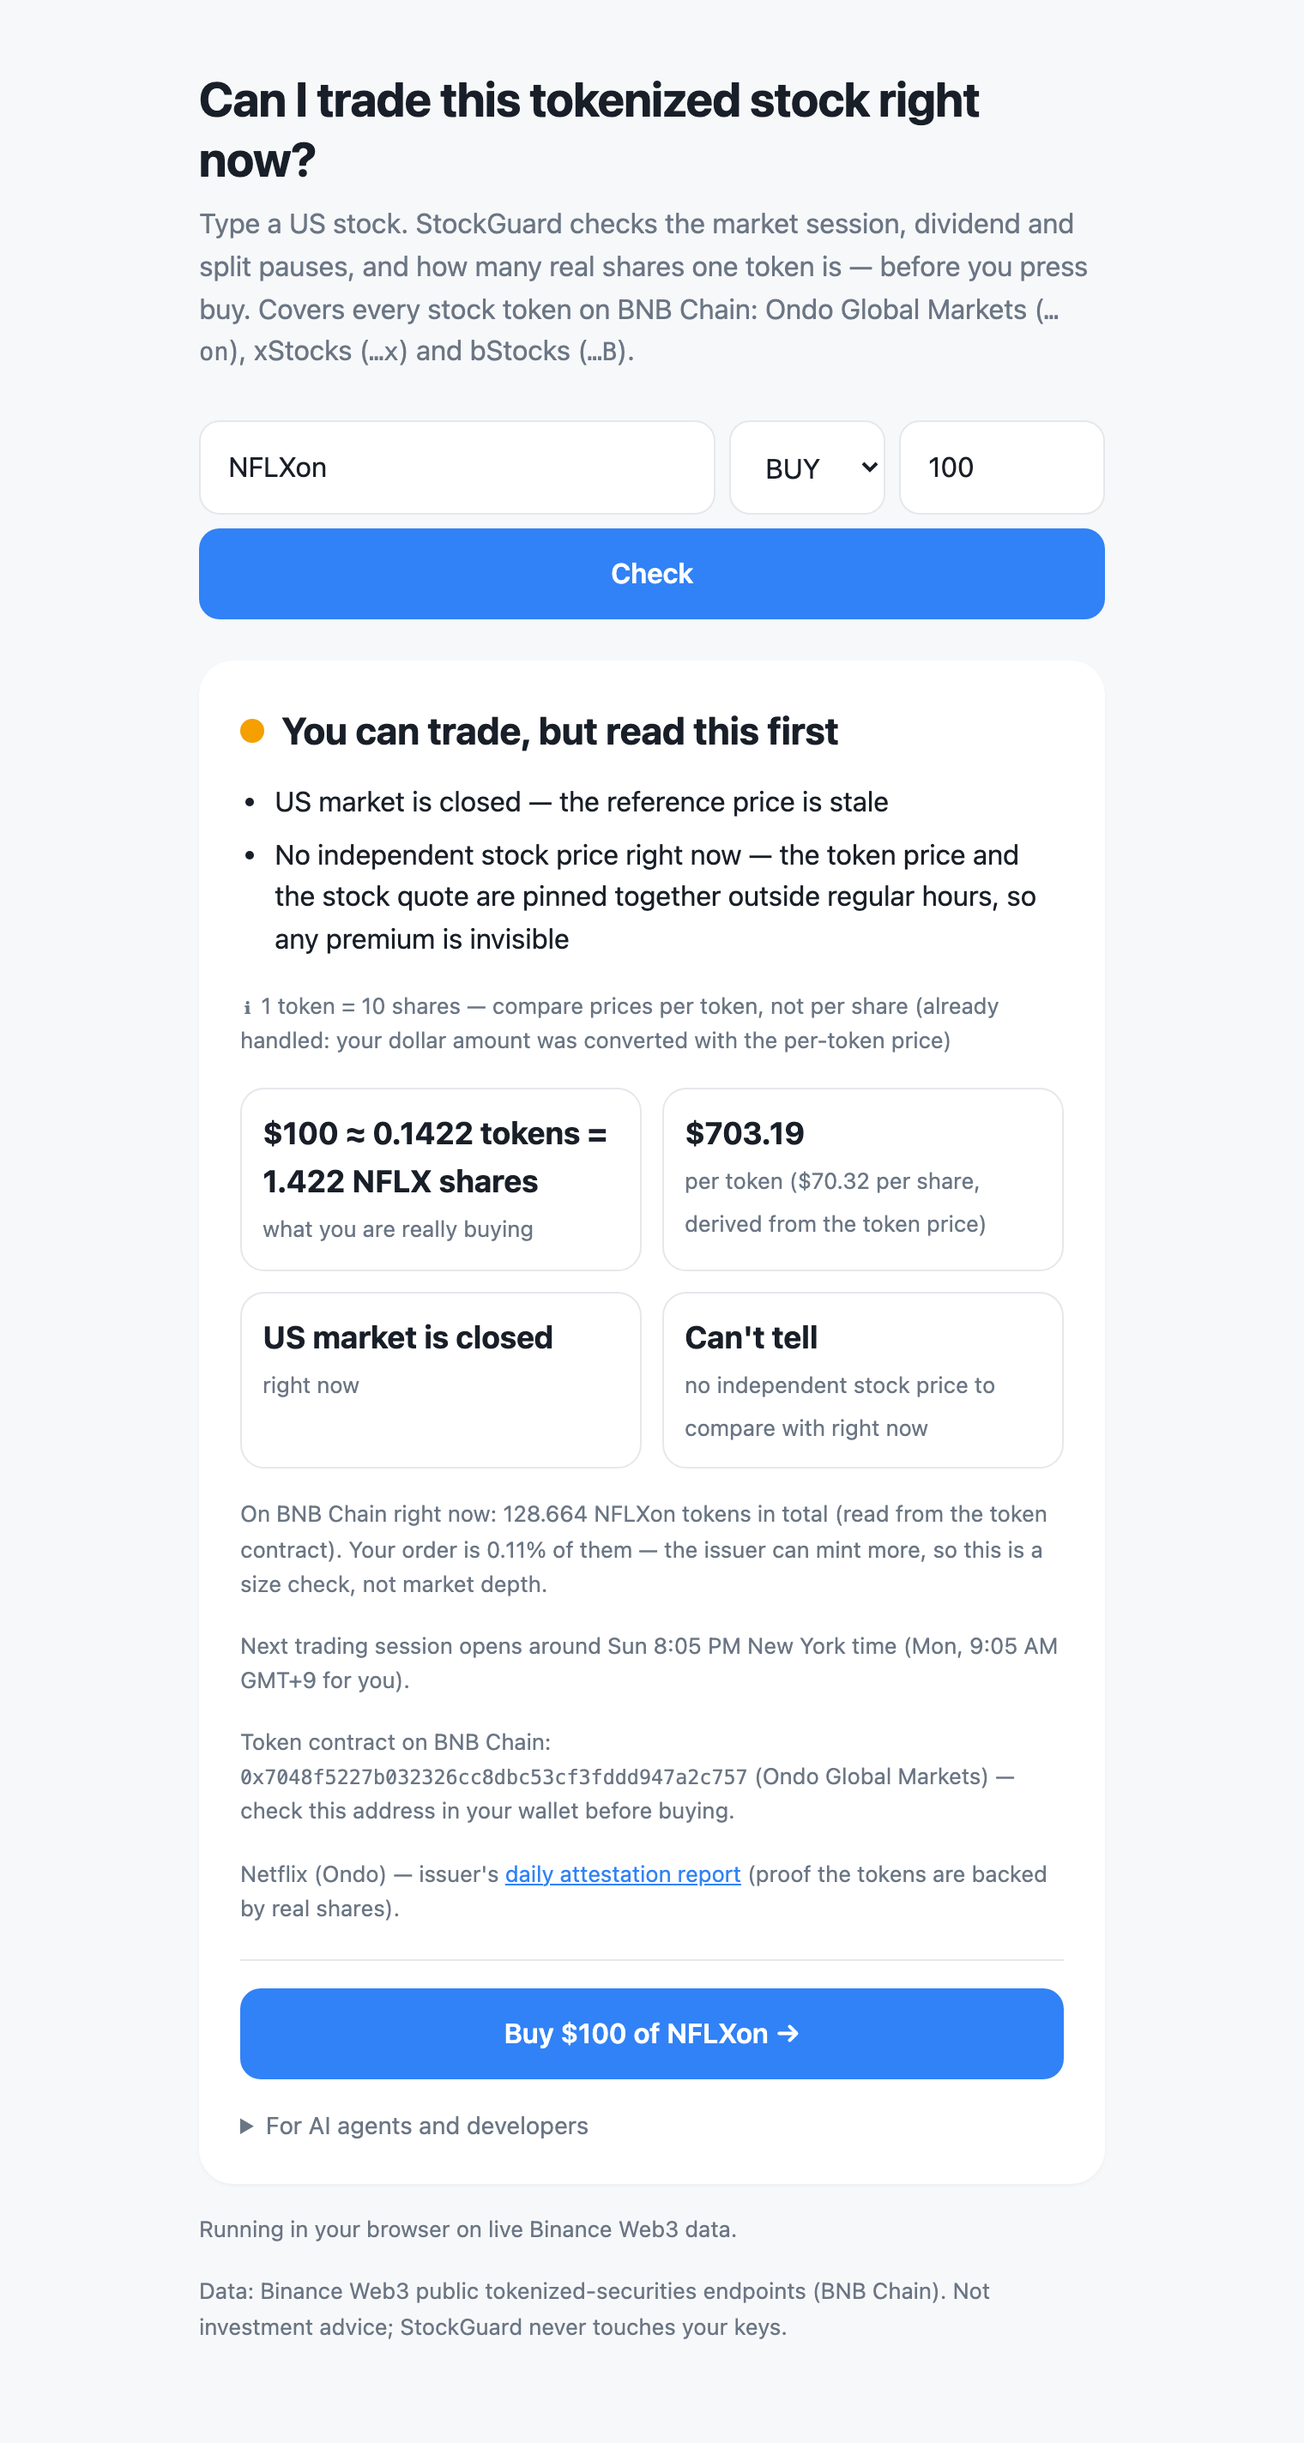
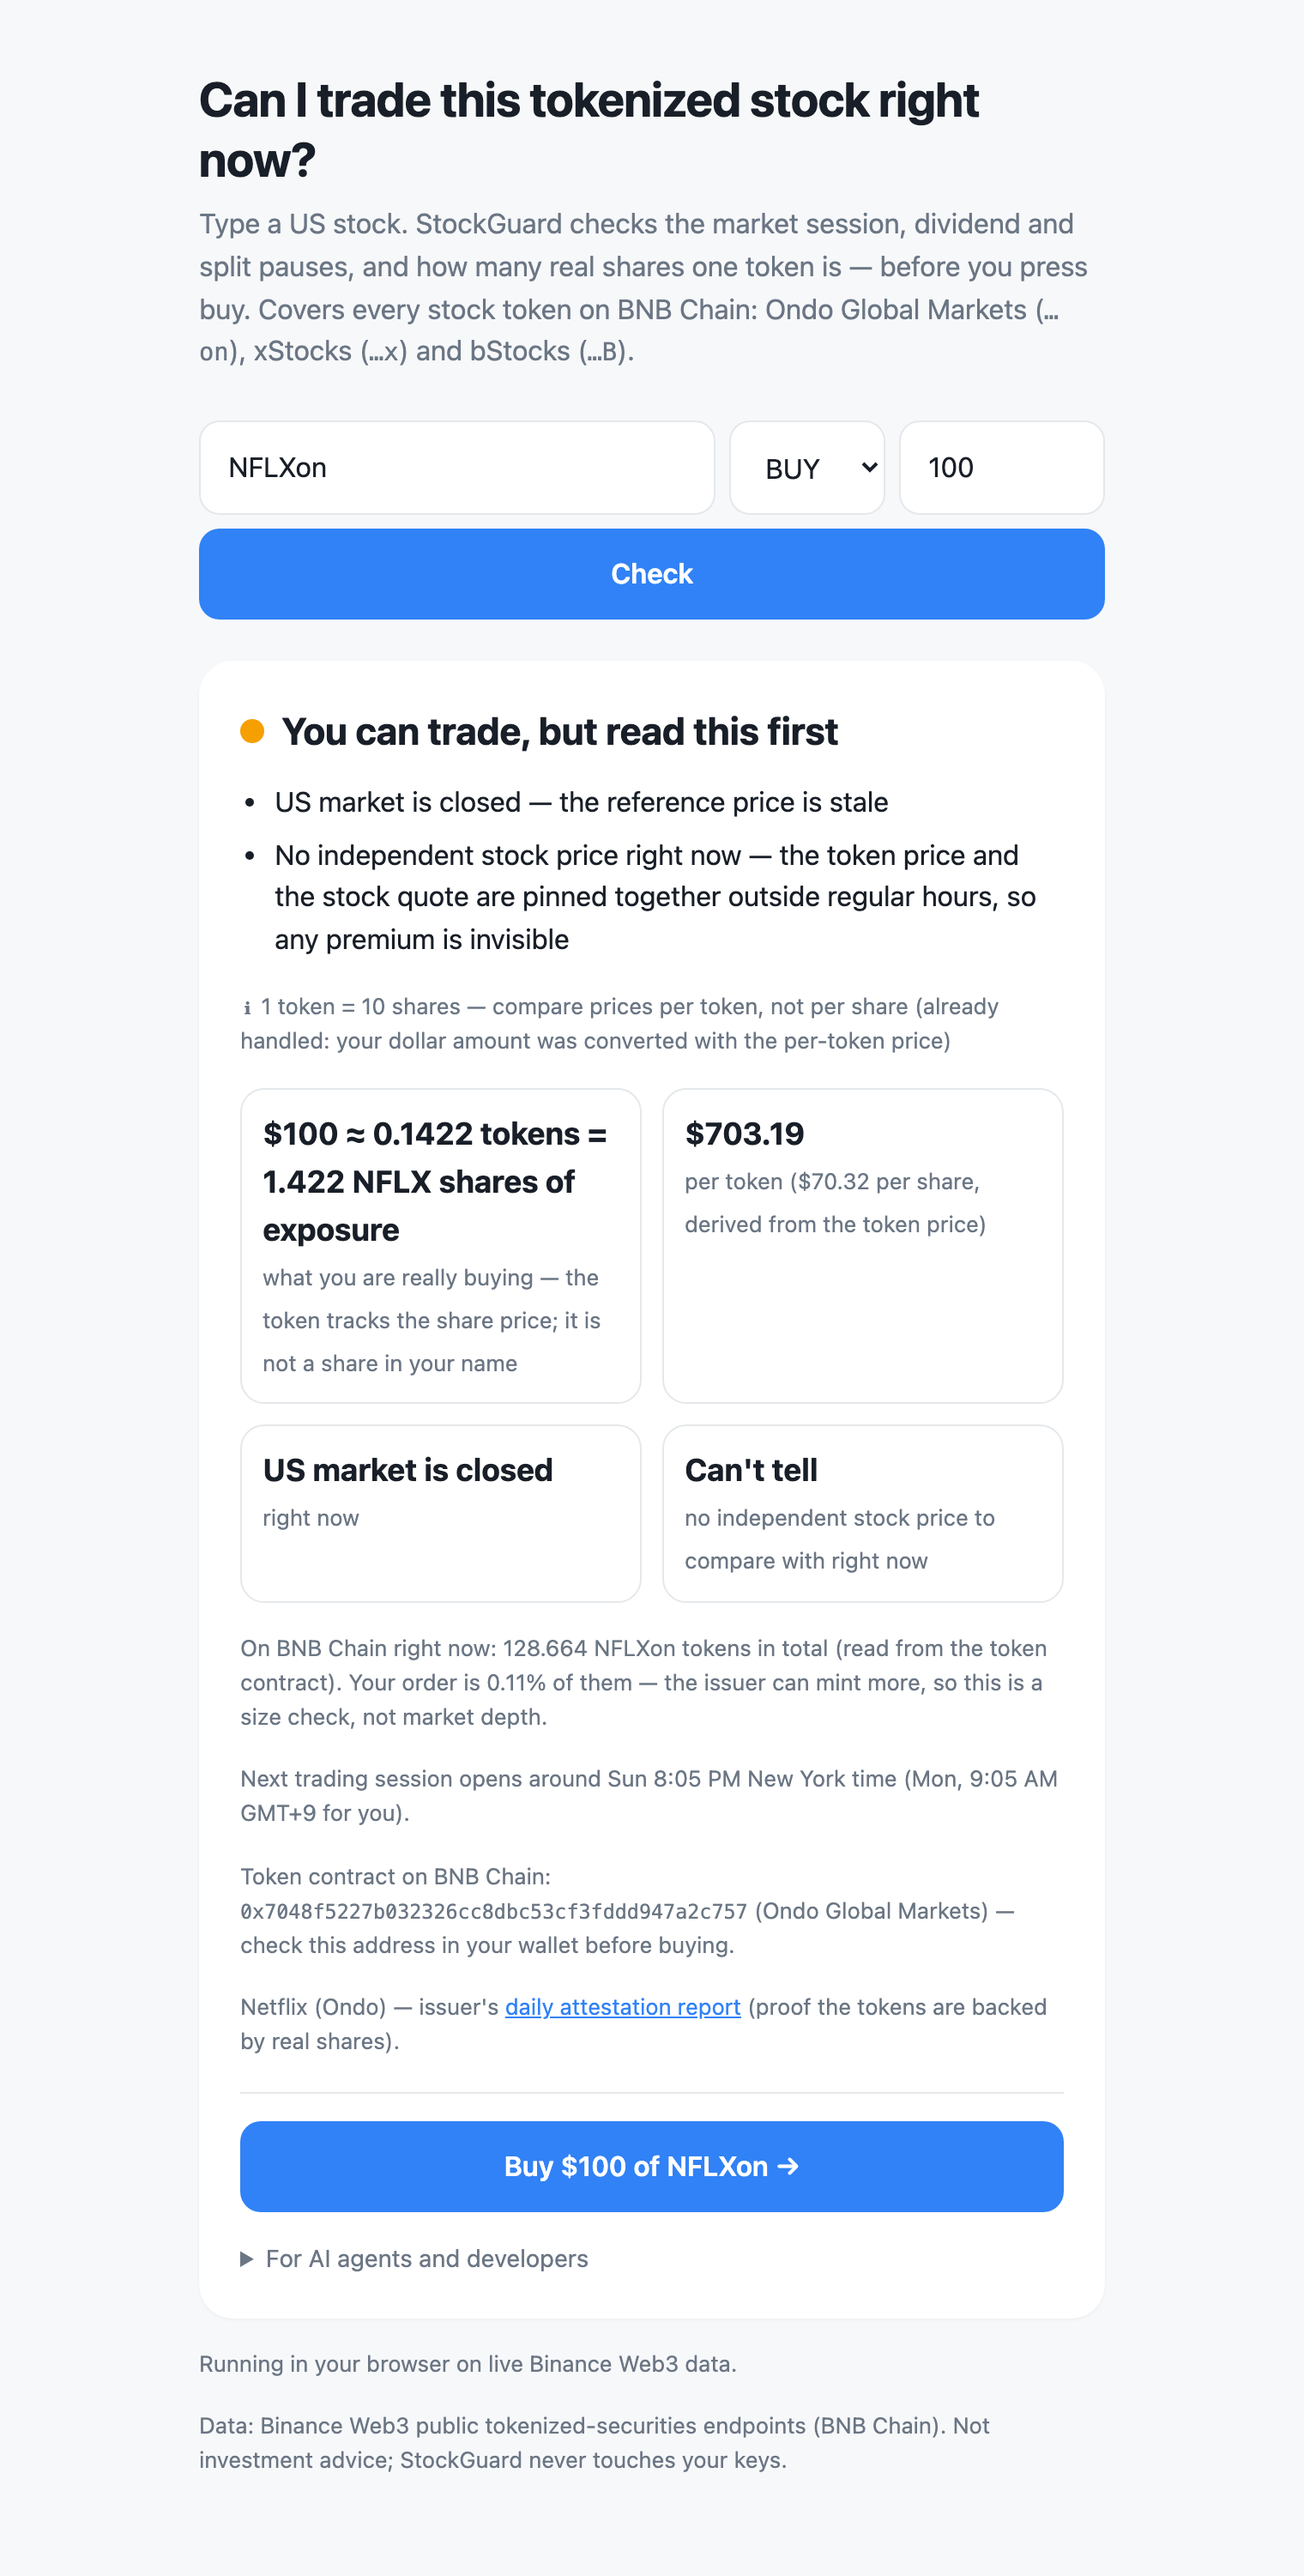
reproduce_findings --offline: F7 says 'not recorded' for xStocks/bStocks candles instead of 0, and the contrast must hold when they are present (test)
Claude-Session: https://claude.ai/code/session_015DitZZn4mX928yQEEcy6bZ

Changed region(s): [[0.1546, 0.0312, 0.8658, 0.875], [0.1546, 0.9062, 0.7112, 0.9688]]

diff --git a/scripts/reproduce_findings.py b/scripts/reproduce_findings.py
@@ -104,10 +104,17 @@ def check_f7(klines: List, others: Optional[Dict[str, List]] = None) -> Dict:
     vols = [str(k[5]) for k in klines if isinstance(k, list) and len(k) > 5]
     zero = sum(1 for v in vols if _f(v) == 0)
     obs = {"NFLXon candles": len(vols), "NFLXon candles with volume 0": zero, "NFLXon close prices move": len({k[4] for k in klines}) > 1}
-    for sym, ks in (others or {}).items():   # xStocks/bStocks candles do carry volume: the gap is Ondo-specific
-        obs[f"{sym} candles with volume > 0"] = sum(1 for k in ks if isinstance(k, list) and len(k) > 5 and (_f(k[5]) or 0) > 0)
+    contrast = []                             # xStocks/bStocks candles do carry volume: the gap is Ondo-specific
+    for sym, ks in (others or {}).items():
+        rows = [k for k in ks if isinstance(k, list) and len(k) > 5]
+        if not rows:                          # e.g. --offline: only Ondo candles were recorded — say so, don't print 0
+            obs[f"{sym} candles with volume > 0"] = "not recorded"
+            continue
+        n = sum(1 for k in rows if (_f(k[5]) or 0) > 0)
+        obs[f"{sym} candles with volume > 0"] = n
+        contrast.append(n > 0)
     return {"observed": obs, "expected": "some volume on Ondo candles whose price moves, as xStocks/bStocks candles have",
-            "reproduced": bool(vols) and zero == len(vols)}
+            "reproduced": bool(vols) and zero == len(vols) and (not contrast or any(contrast))}
 
 
 def check_f14(audit: Dict) -> Dict:

diff --git a/tests/test_r10_fixes.py b/tests/test_r10_fixes.py
@@ -233,3 +233,14 @@ def test_check_with_an_ambiguous_ticker_exits_11_like_gate(capsys):
 def test_page_says_share_exposure_not_shares_owned():
     html = open(os.path.join(ROOT, "src", "stockguard", "web", "index.html"), encoding="utf-8").read()
     assert "shares of exposure" in html
+
+
+def test_f7_offline_without_recorded_candles_says_not_recorded():
+    import importlib.util
+    spec = importlib.util.spec_from_file_location("rf", os.path.join(ROOT, "scripts", "reproduce_findings.py"))
+    rf = importlib.util.module_from_spec(spec); spec.loader.exec_module(rf)
+    ondo = [[1, "1", "1", "1", "1", "0"], [2, "1", "1", "1", "2", "0"]]
+    r = rf.check_f7(ondo, {"NFLXx": []})
+    assert r["observed"]["NFLXx candles with volume > 0"] == "not recorded" and r["reproduced"] is True
+    r2 = rf.check_f7(ondo, {"NFLXx": [[1, "1", "1", "1", "1", "0"]]})   # the contrast fails: x candles have no volume
+    assert r2["reproduced"] is False

diff --git a/README.md b/README.md
@@ -156,7 +156,7 @@ A recorded live mainnet trade, and a Transaction API dry-run (that API needs a d
 ## Tests
 
 ```
-python3 -m pytest -q      # 191 tests, offline (fixtures are real recorded responses; `baw` is faked or recorded)
+python3 -m pytest -q      # 192 tests, offline (fixtures are real recorded responses; `baw` is faked or recorded)
 ```
 
 ## Data source
